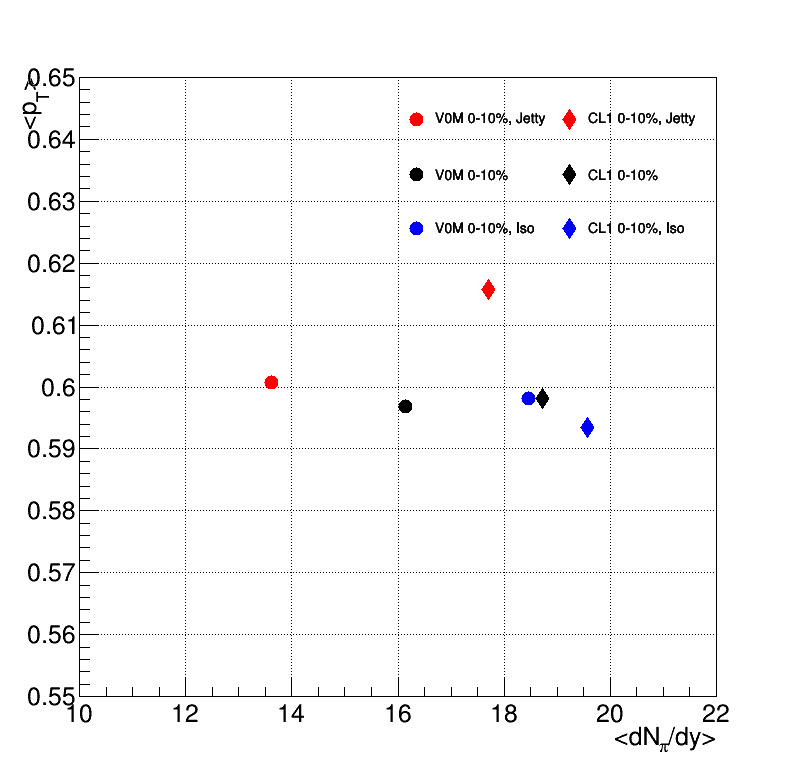
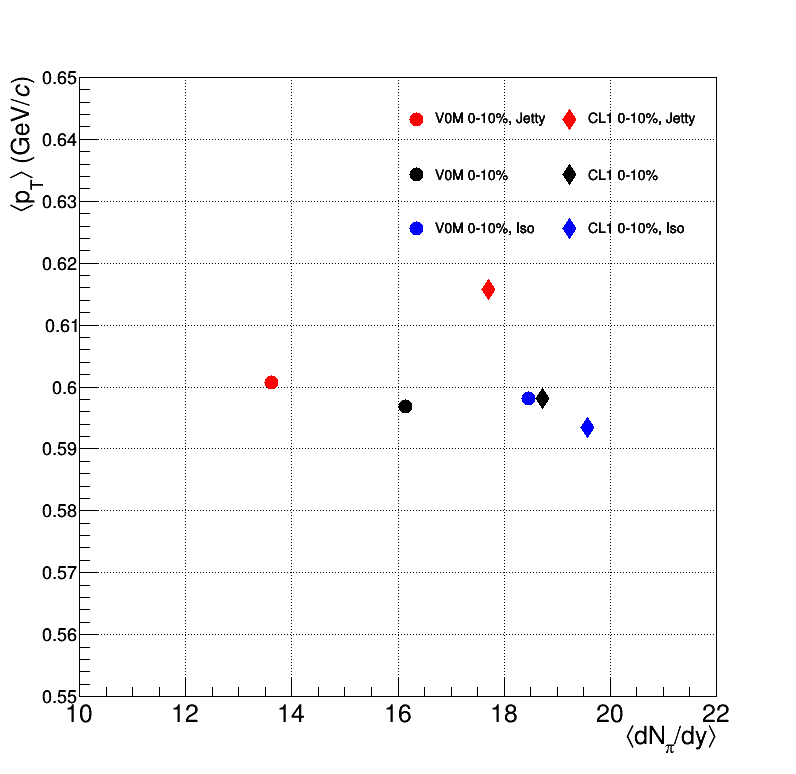
nicer plot

diff --git a/getdNdy.C b/getdNdy.C
@@ -67,6 +67,7 @@ void getdNdy() {
 	}
 
 	TCanvas* c1 = new TCanvas("c1","",800,800);
+	c1->SetGrid();
 	TGraphErrors* gr[6]; TGraphErrors* gr_sys[6]; 
 	
 	for (int iS = 0; iS < 6; ++iS)	{
@@ -95,9 +96,12 @@ void getdNdy() {
 	//TGraphErrors* gr_tot = new TGraphErrors(6, dndy, pt, dndy_stat, pt_stat);
 	TMultiGraph* gr_tot = new TMultiGraph();
 	for (int iS = 0; iS < 6; iS++) { gr_tot->Add(gr_sys[iS],"2"); gr_tot->Add(gr[iS],"");}
-	gr_tot->SetTitle("; <dN_{#pi}/dy>; <p_{T}>");
+	gr_tot->SetTitle("; #LTdN_{#pi}/dy#GT; #LTp_{T}#GT (GeV/#it{c})");
 	gr_tot->SetMinimum(0.55); gr_tot->SetMaximum(0.65);
 	gr_tot->Draw("APZ"); 
+	gr_tot->GetYaxis()->SetTitleOffset(1.2);
+	gr_tot->GetYaxis()->SetLabelOffset(0.0025);
+	gr_tot->GetYaxis()->SetLabelSize(0.025);
 	gr_tot->GetXaxis()->SetLimits(10., 22.);
 	gPad->Modified();
 	gPad->Update();
